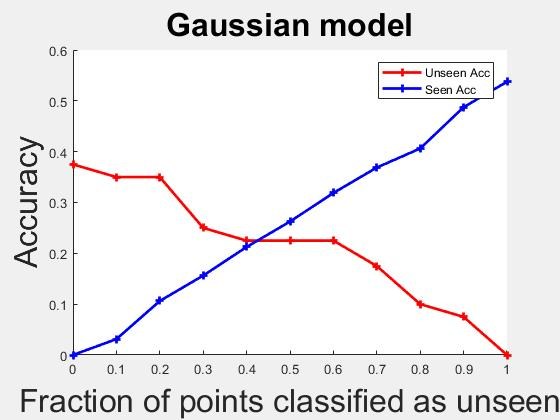
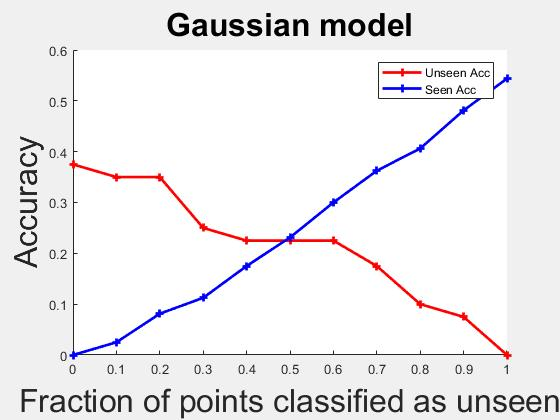
saved params

diff --git a/main.m b/main.m
@@ -1,3 +1,4 @@
+
 clear all
 clc
 close all
@@ -17,6 +18,7 @@ addpath toolbox/pwmetric/;
 % containing word vectors (see README for details).
 fields = {{'dataset',        'cifar10_small'};
           {'wordset',        'acl'};
+          {'lambda_penalty',    1E-4};
 };
 % END primary configurable parameters.
 
@@ -34,6 +36,8 @@ loadData; % Comment out if you've already loaded data.
 disp('Training mapping function');
 % Train mapping function
 trainParams.imageDataset = fullParams.dataset;
+trainParams.lambda_penalty = fullParams.lambda_penalty;
+
 
 % for i =1: length(nonZeroCategories)
 %     cat_id = nonZeroCategories(i);
@@ -55,8 +59,9 @@ trainParamsSeen.nonZeroShotCategories = nonZeroCategories;
 % %mappedCategories(Y) maps category labels from disjoint nonzeroshot category lables
 % %like 1,2,3,5,6,7,8,9 to continuout values like 1,2,3,4,5,6,7,8
 [thetaSeen, trainParamsSeen] = nonZeroShotTrain(X, mappedCategories(Y), trainParamsSeen, label_names(nonZeroCategories));
-
+save(sprintf('%s/trainParams.mat', outputPath),  'trainParams');
 save(sprintf('%s/thetaSeenSoftmax.mat', outputPath), 'thetaSeen', 'trainParamsSeen');
+
 % % Get train accuracy
 softmaxDoEvaluate( X, Y, label_names, thetaSeen, trainParamsSeen, true );
  
@@ -86,6 +91,9 @@ for i =1:numCategories
         
     end
 end
+
+save(sprintf('%s/mappedTrainImages.mat', outputPath), 'mapped');
+
 [~,numTraining] = size(X);
 sorted_train_Logprob = zeros(length(nonZeroCategories), numTraining );
 mappedTestImages = cell(length(nonZeroCategories),1);
@@ -95,7 +103,8 @@ for i = 1: length(nonZeroCategories)
     mappedTestImages{i} = mapDoMap(testX, theta{i}, trainParams);
 
 end
-    % 
+save(sprintf('%s/mappedTestImages.mat', outputPath), 'mappedTestImages');
+
 % % Test
 %mappedTestImages = mapDoMap(testX, theta, trainParams);
 sorted_train_Logprob = sort(sum(sorted_train_Logprob));
@@ -109,6 +118,8 @@ for i = 1: length(nonZeroCategories)
     cat_id = nonZeroCategories(i);
     logprobabilities(i,:) = predictGaussianDiscriminant(mappedTestImages{i}, mu(cat_id,:), sigma(cat_id), priors(cat_id));
 end
+save(sprintf('%s/logprobabilities.mat', outputPath), 'logprobabilities');
+
 %logprobabilities = sum(logprobabilities);
 
 % sortedLogprobabilities (ascending order)= a   b   c   d   e   f   g   h
@@ -132,96 +143,3 @@ end
 % 
  plot_Gaussian_model
  plot_randomConfusionWords_6
-%% 
-
-% disp('Training LoOP model'); fullParams.resolution = resolution;
-% resolution = fullParams.resolution - 1; thresholds = 0:(1/resolution):1;
-% lambdas = 1:13; knn = 20; loopSeenAccuracies = zeros(length(lambdas),
-% length(thresholds)); loopUnseenAccuracies = zeros(length(lambdas),
-% length(thresholds)); loopAccuracies = zeros(length(lambdas),
-% length(thresholds)); nonZeroCategoryIdPerm =
-% randperm(length(nonZeroCategories)); bestLambdas =
-% repmat(lambdas(round(length(lambdas)/2)), 1, length(nonZeroCategories));
-% mappedValidationImages = mapDoMap(Xvalidate, theta, trainParams);
-% 
-% for k = 1:length(nonZeroCategories)
-%     changedCategory = nonZeroCategoryIdPerm(k); for i = 1:length(lambdas)
-%         tempLambdas = bestLambdas; tempLambdas(changedCategory) =
-%         lambdas(i); disp(tempLambdas); [ nplofAll, pdistAll ] =
-%         trainOutlierPriors(mapped, Y, nonZeroCategories, numTrainPerCat,
-%         knn, tempLambdas); probs = calcOutlierPriors(
-%         mappedValidationImages, mapped, Y, numTrainPerCat,
-%         nonZeroCategories, tempLambdas, knn, nplofAll, pdistAll ); for t
-%         = 1:length(thresholds)
-%             fprintf('Threshold %f: ', thresholds(t)); [~, results] =
-%             anomalyDoEvaluate(thetaSeen, ...
-%                 trainParamsSeen, thetaUnseen, trainParamsUnseen, probs,
-%                 Xvalidate, mappedValidationImages, Yvalidate, ...
-%                 thresholds(t), zeroCategories, nonZeroCategories,
-%                 wordTable, false);
-%             loopSeenAccuracies(i, t) = results.seenAccuracy;
-%             loopUnseenAccuracies(i, t) = results.unseenAccuracy;
-%             loopAccuracies(i, t) = results.accuracy; fprintf('seen
-%             accuracy: %f, unseen accuracy: %f\n', results.seenAccuracy,
-%             results.unseenAccuracy);
-%         end
-%     end [~, t] = max(sum(loopAccuracies,2)); bestLambdas(changedCategory)
-%     = t;
-% end disp('Best:'); disp(bestLambdas); % Do it again, with best lambdas
-% loopSeenAccuracies = zeros(1, length(thresholds)); loopUnseenAccuracies =
-% zeros(1, length(thresholds)); loopAccuracies = zeros(1,
-% length(thresholds)); [ nplofAll, pdistAll ] = trainOutlierPriors(mapped,
-% Y, nonZeroCategories, numTrainPerCat, knn, bestLambdas); probs =
-% calcOutlierPriors( mappedTestImages, mapped, Y, numTrainPerCat,
-% nonZeroCategories, bestLambdas, knn, nplofAll, pdistAll ); for t =
-% 1:length(thresholds)
-%     fprintf('Threshold %f: ', thresholds(t));
-%             [~, results] = anomalyDoEvaluate(thetaSeen, ...
-%                 trainParamsSeen, thetaUnseen, trainParamsUnseen, probs,
-%                 testX, mappedTestImages, testY, ... thresholds(t),
-%                 zeroCategories, nonZeroCategories, wordTable, false);
-%     loopSeenAccuracies(t) = results.seenAccuracy; loopUnseenAccuracies(t)
-%     = results.unseenAccuracy; loopAccuracies(t) = results.accuracy;
-%     fprintf('accuracy: %f, seen accuracy: %f, unseen accuracy: %f\n',
-%     results.accuracy, results.seenAccuracy, results.unseenAccuracy);
-% end save(sprintf('%s/bestLambdas.mat', outputPath), 'bestLambdas');
-% 
-% disp('Run Bayesian pipeline for LoOP'); [~, bayesianResult] =
-% evaluateLoopBayesian(thetaSeen, thetaUnseen, ...
-%     theta, trainParamsSeen, trainParamsUnseen, trainParams, mapped, Y,
-%     testX, ... testY, bestLambdas, knn, nplofAll, pdistAll,
-%     numTrainPerCat, zeroCategories, nonZeroCategories, label_names,
-%     true);
-% 
-% %%%%%%
-% 
-% cutoffs = generateGaussianCutoffs(thetaSeen, thetaUnseen, theta,
-% trainParamsSeen, ...
-%   trainParamsUnseen, trainParams, X, Y, wordTable, 0.05, 1,
-%   zeroCategories, nonZeroCategories);
-% 
-% disp('Run Bayesian pipeline for Gaussian model'); thetaSeenSoftmax =
-% thetaSeen; thetaUnseenSoftmax =  thetaUnseen; seenSmTrainParams =
-% trainParamsSeen; unseenSmTrainParams = trainParamsUnseen; mapTrainParams
-% = trainParams; thetaMapping = theta;
-% 
-% validX = Xvalidate; validY =Yvalidate; [ guessedCategories, results ] =
-% evaluateGaussianBayesian(thetaSeenSoftmax, thetaUnseenSoftmax, ...
-%     thetaMapping, seenSmTrainParams, unseenSmTrainParams, mapTrainParams,
-%     validX, ... validY, cutoffs, zeroCategories, nonZeroCategories,
-%     label_names, wordTable, true);
-% 
-% 
-% 
-% pdfSeenAccuracies = results.seenAccuracy; pdfUnseenAccuracies =
-% results.unseenAccuracy; pdfAccuracies = results.accuracy;
-% 
-% %Save results. save(sprintf('%s/out_%s.mat', outputPath, zeroStr),
-% 'gSeenAccuracies', 'gUnseenAccuracies', 'gAccuracies', ...
-%     'loopSeenAccuracies', 'loopUnseenAccuracies', 'loopAccuracies',
-%     'pdfSeenAccuracies', 'pdfUnseenAccuracies', ... 'pdfAccuracies',
-%     'bayesianResult');
-
-%Plot graphs
-% plot_unseen_bar_3
-%plot_modelComparisons_4 plot_randomConfusionWords_6

diff --git a/plotting/plot_tsne.m b/plotting/plot_tsne.m
@@ -4,12 +4,11 @@
 % uncomment depending on what you want to map:
 % training data (no zero shot classes) or test data (includes zero shot classes)
 %  load('mappedTrainData.mat');
-load('mappedTestData.mat');
-
+load('.\gauss_cifar10_acl_cat_truck\mappedTestImages.mat');
 load('word_data\acl\cifar10\wordTable.mat')
 
-numImages = size(mappedX, 2);
-t = tsne([mappedX wordTable]');
+numImages = size(mappedTestImages{2}, 2);
+t = tsne([mappedTestImages{2} wordTable]');
 mappedX_t = t(1:numImages, :);
 mappedWordTable_t = t(numImages+1:end, :);
 
@@ -18,6 +17,9 @@ load('image_data/images/cifar10/meta.mat');
 
 % load word table
 load('word_data/acl/cifar10/wordTable.mat');
-
+load('image_data\features\cifar10\test.mat');
+Y = testY+1;
 % do the visualization
-visualize(mappedX_t, Y, mappedWordTable_t, label_names);
+%visualize(mappedX_t, Y, mappedWordTable_t, label_names);
+Y = (Y==2);
+gscatter(mappedX_t(:,1), mappedX_t(:,2), label_names(Y+1), [], '+o', 2);

diff --git a/trainFunctions/trainMapping.m b/trainFunctions/trainMapping.m
@@ -8,7 +8,7 @@ addpath costFunctions/;
 %% Model Parameters
 fields = {{'wordDataset',         'acl'};            % type of embedding dataset to use ('turian.200', 'acl')
           {'lambda',              1E-4};   % regularization parameter
-          {'lambda_penalty',      1E-4};   % regularization parameter
+          {'lambda_penalty',      0.01};   % regularization parameter
           {'numReplicate',        0};     % one-shot replication
           {'dropoutFraction',     1};    % drop-out fraction
           {'costFunction',        @mapTrainingCostOneLayer}; % training cost function

diff --git a/loadData.m b/loadData.m
@@ -62,7 +62,7 @@ if strcmp(dataset, 'cifar10') || strcmp(dataset, 'cifar96') || strcmp(dataset, '
 
     zeroList = label_names(zeroCategories);
     zeroStr = [sprintf('%s_',zeroList{1:end-1}),zeroList{end}];
-    outputPath = sprintf('gauss_%s_%s_%s', dataset, wordset, zeroStr);
+    outputPath = sprintf('gauss_%s_%s_%s_%s', dataset, wordset, zeroStr, num2str(fullParams.lambda_penalty));
 
     if not(exist(outputPath, 'dir'))
         mkdir(outputPath);

diff --git a/plotting/visualize.m b/plotting/visualize.m
@@ -1,8 +1,10 @@
 % Visualize t-SNE mapped word vectors.
 
 function [] = visualize(mappedX, Y, mappedWordTable, label_names, images, images_to_show)
+Y = (Y==1);
+gscatter(mappedX(:,1), mappedX(:,2), label_names(Y+1), [], '+o', 2);
 
-gscatter(mappedX(:,1), mappedX(:,2), label_names(Y), [], '+o*.xsd^v>', 7);
+gscatter(mappedX(:,1), mappedX(:,2), label_names(Y+1), [], '+o*.xsd^v>', 7);
 hold on;
 
 % Add actual images

diff --git a/plotting/plot_Gaussian_model.m b/plotting/plot_Gaussian_model.m
@@ -14,6 +14,7 @@ set(h_title, 'FontSize', 24);
 set(h_xl, 'FontSize', 24);
 set(h_yl, 'FontSize', 24);
 legend([p1, p2], 'Unseen Acc', 'Seen Acc');
-file_name = './figures/gaussian_model_acc.jpg';
+
+file_name = [outputPath '/gaussian_model_acc.jpg'];
 Image = getframe(gcf);
 imwrite(Image.cdata, file_name);
